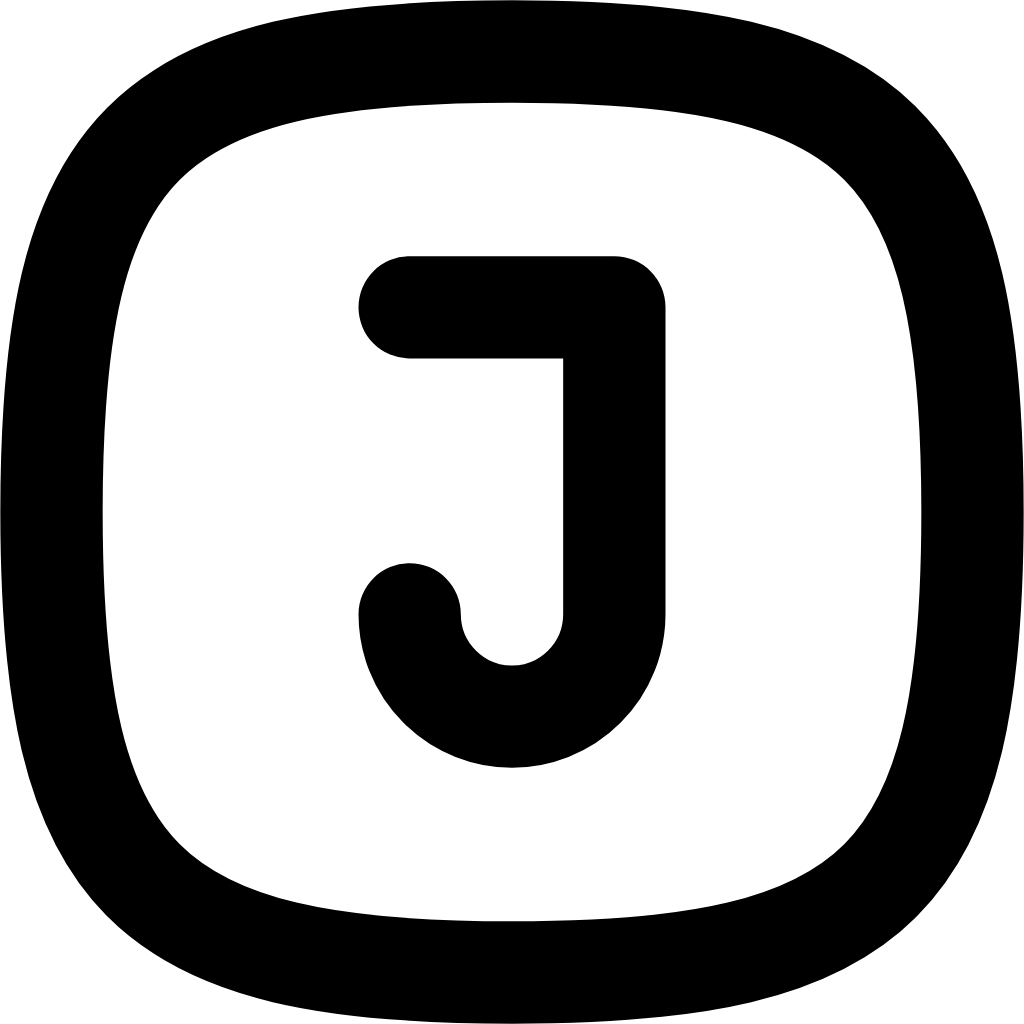
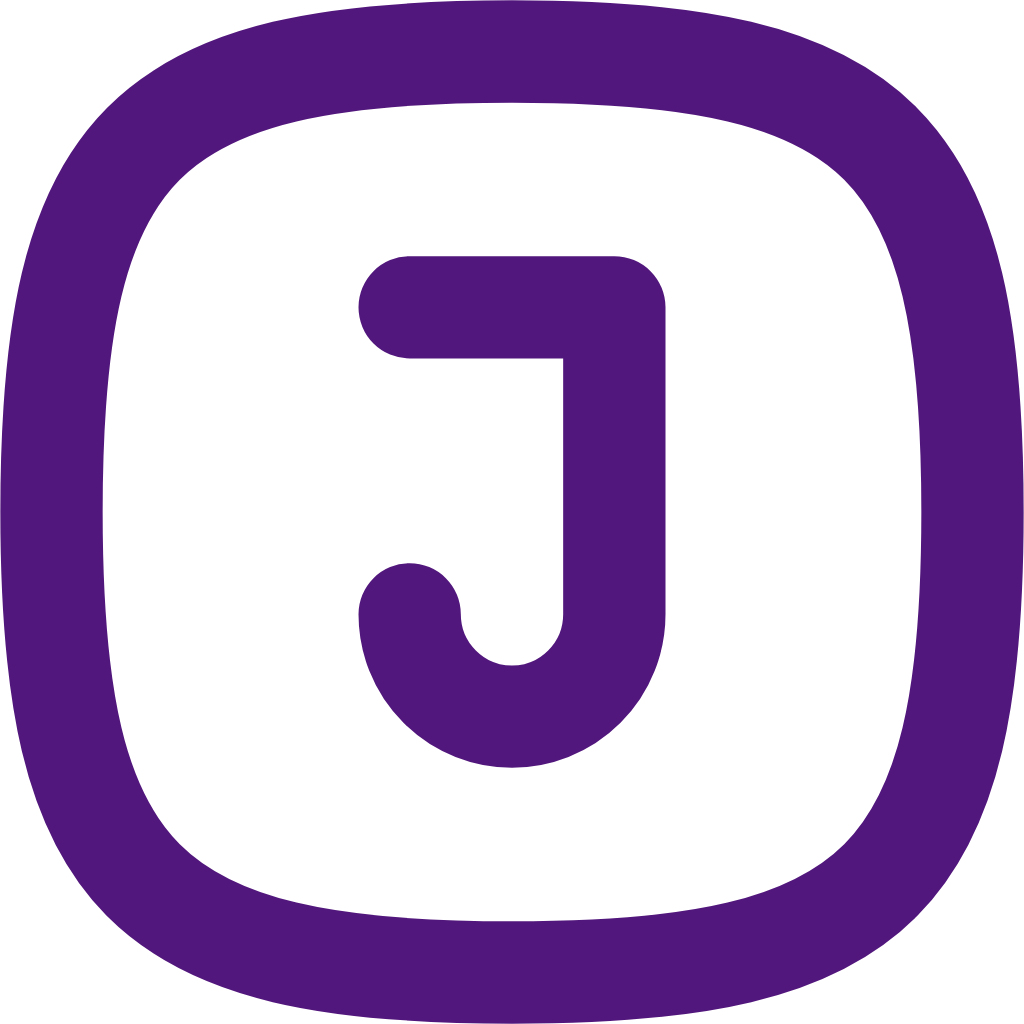
dashboard v1

diff --git a/src/app/components/side-navbar/side-navbar.component.html b/src/app/components/side-navbar/side-navbar.component.html
@@ -1,11 +1,11 @@
-<div class=" w-64 h-screen bg-gray-900 rounded-md overflow-y-scroll">
+<div class=" w-64 h-screen bg-gray-900  overflow-y-scroll">
     <div class="px-6 pt-8">
         <div class="flex items-center justify-between">
-            <a routerLink="/home" class="p-1 flex items-center justify-center bg-white rounded focus:outline-none focus:ring-1 focus:ring-white focus:ring-offset-2">
+            <a href="#" class="p-1 flex items-center justify-center bg-gray-500 text-violet-900 rounded focus:outline-none focus:ring-1 focus:ring-white focus:ring-offset-2">
                 <mat-icon class="w-5 h-5 stroke-current">layers</mat-icon>
             </a>
             <button class="flex items-center justify-center p-0.5 rounded bg-gray-800">
-                <mat-icon class="w-7 h-7 stroke-current text-white" >arrow_left_alt</mat-icon>
+                <mat-icon class="w-7 h-7 stroke-current text-gray-500" >arrow_left_alt</mat-icon>
 
             </button>
         </div>
@@ -22,7 +22,7 @@
     <div class="px-6 pt-4 ">
     <hr class="border-gray-700">
     </div>
-    <div class="px-6 pt-4 ">
+    <div class="px-6 pt-4 cursor-pointer ">
         <div>
             <ul class="flex flex-col space-y-2">
                 <li  >
@@ -51,7 +51,7 @@
         </div>
 
     </div>
-    <div class="px-6 pt-4 ">
+    <div class="px-6 pt-4 cursor-pointer">
         <div>
             <ul class="flex flex-col space-y-2">
                 <li>
@@ -80,7 +80,7 @@
         </div>
 
     </div>
-    <div class="px-6 pt-4 ">
+    <div class="px-6 pt-4 cursor-pointer">
         <div>
             <ul class="flex flex-col space-y-2">
                 <li>
@@ -108,7 +108,7 @@
             </ul>
         </div>
     </div>
-    <div class="px-6 pt-4 ">
+    <div class="px-6 pt-4 cursor-pointer">
             <div>
                 <ul class="flex flex-col space-y-2">
                     <li>
@@ -136,7 +136,7 @@
             </div>
     
         </div>
-        <div class="px-6 pt-4 ">
+        <div class="px-6 pt-4 cursor-pointer">
             <div>
                 <ul class="flex flex-col space-y-2">
                     <li>
@@ -164,7 +164,7 @@
             </div>
     
         </div>
-        <div class="px-6 pt-4 ">
+        <div class="px-6 pt-4 cursor-pointer">
             <div>
                 <ul class="flex flex-col space-y-2">
                     <li>
@@ -192,7 +192,7 @@
             </div>
     
         </div>
-        <div class="px-6 pt-4 ">
+        <div class="px-6 pt-4 cursor-pointer">
             <div>
                 <ul class="flex flex-col space-y-2">
                     <li>
@@ -222,7 +222,7 @@
             <hr class="border-gray-700"/>
         </div>
 
-        <div class="px-6 pt-4 ">
+        <div class="px-6 pt-4 cursor-pointer">
             <div>
                 <ul class="flex flex-col space-y-2">
                     <li class="">
@@ -240,7 +240,7 @@
                 </ul>
             </div>
         </div>
-        <div class="px-6 pt-4 ">
+        <div class="px-6 pt-4 cursor-pointer">
             <div>
                 <ul class="flex flex-col space-y-2">
                     <li class="">
@@ -260,22 +260,33 @@
                 </ul>
             </div>
         </div>
-        <div class=" bottom-0 sticky  left-0 w-60  pl-35 ">
-        <div class=" pl-5 pr-4 py-4 bg-gray-800 flex items-center justify-between relative">
-            <div class="flex items-center">
-                <div  class=" relative w-8 h-8 rounded-full before:absolute before:w-2 before:h-2 before:bg-green-500 before:rounded-full before:right-0 before:bottom-0 before:ring-1 before:ring-white">
-                <img class="rounded-full" src="assets/user.jpg" alt="UserImage">
+ 
+       <!--
+<div class=" bottom-0 left-0 w-60  pl-35 lg:bottom-0 ">
+            <div class=" pl-5 pr-4 py-4 bg-gray-800 flex items-center justify-between relative">
+                <div class="flex items-center">
+                    <div  class=" relative w-8 h-8 rounded-full before:absolute before:w-2 before:h-2 before:bg-green-500 before:rounded-full before:right-0 before:bottom-0 before:ring-1 before:ring-white">
+                    <img class="rounded-full" src="assets/user.jpg" alt="UserImage">
+                    </div>
+                    <div class="flex flex-col pl-3">
+                        <div class="text-sm text-gray-50">Jane Jensen</div>
+                        <span class="text-xs text-[#acacb0] font-light tracking-tight">janejensen@gmail.com</span>
+                    </div>
                 </div>
-                <div class="flex flex-col pl-3">
-                    <div class="text-sm text-gray-50">Jane Jensen</div>
-                    <span class="text-xs text-[#acacb0] font-light tracking-tight">janejensen@gmail.com</span>
-                </div>
+                <button (click)="account()" class="text-gray-400 bg-gray-700 rounded">
+                    <mat-icon class="w-4 h-4 stroke-current" viewBox="002424">expand_less</mat-icon>
+        
+                </button>
             </div>
-            <button (click)="account()" class="text-gray-400 bg-gray-700 rounded">
-                <mat-icon class="w-4 h-4 stroke-current" viewBox="002424">expand_less</mat-icon>
-
-            </button>
         </div>
-    </div>
-
+       -->  
+        
 </div>
+
+
+
+
+
+
+
+

diff --git a/src/app/components/authentification/authentification.component.html b/src/app/components/authentification/authentification.component.html
@@ -2,14 +2,14 @@
     <div class="flex min-h-full flex-col justify-center px-6 py-12 lg:px-8">
         <div class="sm:mx-auto sm:w-full sm:max-w-sm">
           <img class="mx-auto h-10 w-auto" src="assets/Jemo.png" alt="Jemo">
-          <h2 class="mt-10 text-center font-mono text-3xl font-bold leading-9 tracking-tight text-stone-950">Jemo</h2>
-          <h1 class="mt-10 text-center text-xl font-bold  leading-3 tracking-tight text-gray-700" >Administration Authentication</h1>
+          <h2 class="mt-10 text-center font-mono text-3xl font-bold leading-9 tracking-tight text-violet-900">Jemo</h2>
+          <h1 class="mt-10 text-center text-xl font-bold  leading-3 tracking-tight text-violet-800" >Administration Authentication</h1>
         </div>
       
         <div class="mt-10 sm:mx-auto sm:w-full sm:max-w-sm">
           <form [formGroup]="authFrom"  (ngSubmit)="onSubmit()" class="space-y-6" action="#" method="POST">
             <div>
-              <label for="email" class="block text-sm font-medium leading-6 text-indigo-500">Email address</label>
+              <label for="email" class="block text-sm font-medium leading-6 text-stone-950">Email address</label>
               <div class="mt-2">
                 <input id="email" name="email" formControlName="login"  type="email" autocomplete="email" required class="block w-full rounded-md border-0 py-1.5 text-gray-900 shadow-sm ring-1 ring-inset ring-gray-300 placeholder:text-gray-400 focus:ring-2 focus:ring-inset focus:ring-stone-950 sm:text-sm sm:leading-6">
               </div>
@@ -17,9 +17,9 @@
       
             <div>
               <div class="flex items-center justify-between">
-                <label for="password" class="block text-sm font-medium leading-6 text-indigo-500">Password</label>
+                <label for="password" class="block text-sm font-medium leading-6 text-stone-950">Password</label>
                 <div class="text-sm">
-                  <a href="#" class="font-semibold text-stone-950 hover:text-slate-500">Forgot password?</a>
+                  <a href="#" class="font-semibold text-violet-800 hover:text-slate-500">Forgot password?</a>
                 </div>
               </div>
               <div class="mt-2">
@@ -28,13 +28,13 @@
             </div>
       
             <div>
-              <button type="submit" class="flex w-full justify-center rounded-md bg-stone-950 px-3 py-1.5 text-sm font-semibold leading-6 text-white shadow-sm hover:bg-slate-500 focus-visible:outline focus-visible:outline-2 focus-visible:outline-offset-2 focus-visible:outline-stone-950">Sign in</button>
+              <button type="submit" class="flex w-full justify-center rounded-md bg-violet-800 px-3 py-1.5 text-sm font-semibold leading-6 text-white shadow-sm hover:bg-slate-500 focus-visible:outline focus-visible:outline-2 focus-visible:outline-offset-2 focus-visible:outline-stone-950">Sign in</button>
             </div>
           </form>
       
-          <p class="mt-10 text-center text-sm text-indigo-500">
+          <p class="mt-10 text-center text-sm text-stone-950">
             Not a member?
-            <a href="#" class="font-semibold leading-6 text-stone-950 hover:text-slate-500">Create an account !</a>
+            <a href="#" class="font-semibold leading-6 text-violet-800 hover:text-slate-500">Create an account !</a>
           </p>
         </div>
     </div>

diff --git a/src/app/components/navbar/navbar.component.html b/src/app/components/navbar/navbar.component.html
@@ -1,5 +1,4 @@
-<nav class="bg-gray-400 border-gray-200 dark:bg-white">
-<div class="flex justify-between py-2  items-center  ">
+<div class="flex justify-between py-2  items-center bg-gray-900    ">
 
     <div>
         <a>
@@ -11,11 +10,11 @@
         <div>
             <a routerLink="/authentication" routerLinkActive="active" >
                 <div class="flex ml-1">
-                    <button type="button" (click)="logout()" class="text-white bg-gray-800 hover:bg-gray-900 focus:outline-none focus:ring-4 focus:ring-gray-300 font-medium rounded-full text-sm px-5 py-2.5 mr-2 mb-2 dark:bg-gray-800 dark:hover:bg-gray-700 dark:focus:ring-gray-700 dark:border-gray-700">Logout</button>
+                    <button type="button" (click)="logout()" class="text-gray-300 bg-gray-800 hover:bg-gray-900 focus:outline-none focus:ring-4 focus:ring-gray-300 font-medium rounded-full text-sm px-5 py-2.5 mr-2 mb-2 dark:bg-gray-800 dark:hover:bg-gray-700 dark:focus:ring-gray-700 dark:border-gray-700">Logout</button>
                  </div>
             </a>
         </div>
     </div>
 
 </div>
-</nav>
+

diff --git a/src/app/components/home/home.component.html b/src/app/components/home/home.component.html
@@ -1,14 +1,19 @@
-<app-navbar></app-navbar>
+<!--
+    <nav>
+    <app-navbar></app-navbar>
+</nav>
 
-<hr class="border-gray-700">
+-->
 
-<div class="flex items-start justify-normal">
+<div class="bg-gray-900 flex items-start justify-normal ">
     <div class="flex flex-row">
         <app-side-navbar (itemSelected)="selectedItem = $event"></app-side-navbar>
         
     </div>
-    
-    <div class="flex items-start justify-normal w-full">
+    <div *ngIf="selectedItem === '' ">
+        <app-overview></app-overview>
+    </div>
+    <div class=" w-full h-screen">
         <div>
             <ng-container *ngIf="selectedItem === 'Dashboard'">
                 <app-overview></app-overview>
@@ -22,7 +27,6 @@
             <ng-container *ngIf="selectedItem === 'Visitor-Traffic'">
                 <app-visitor-traffic></app-visitor-traffic>
             </ng-container>
-
 
             <ng-container *ngIf="selectedItem === 'Product'">
                 <app-product></app-product>

diff --git a/src/app/app-routing.module.ts b/src/app/app-routing.module.ts
@@ -34,7 +34,7 @@ import { authGuardGuard } from './guard/auth-guard.guard';
 
 const routes: Routes = [
 
-  {path: "", data: {breadcrumb:"CustomerInsights"} , redirectTo: "home" , pathMatch :"full"},
+  {path: "", data: {breadcrumb:"Overview"} , redirectTo: "home" , pathMatch :"full"},
 
   {path: "home", data: {breadcrumb:"Home"} , component: HomeComponent , canActivate: [authGuardGuard] },
 

diff --git a/src/app/components/overview/overview.component.html b/src/app/components/overview/overview.component.html
@@ -1,2 +1,4 @@
-<p>overview works!</p>
+<div class="bg-gray-900 w-full h-screen">
+<p>test</p>
+</div>
 

diff --git a/src/app/app.component.html b/src/app/app.component.html
@@ -1,3 +1,4 @@
+
 <router-outlet></router-outlet>
 
 
